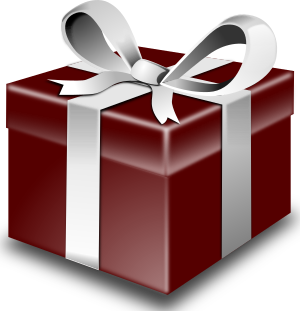
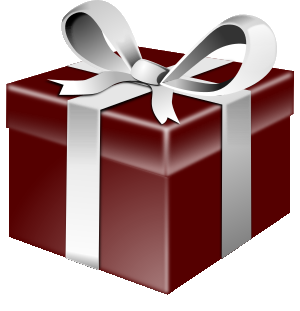
added a present for everyone

Changed region(s): [[0.0, 0.3762, 1.0, 1.0]]

diff --git a/index.html b/index.html
@@ -31,6 +31,8 @@
 
     <img src="img/papiez.jpg" alt="The pope John Paul II" title="The pope John Paul II" class="papiezimg">
     
+    <a href="prezent"><img src="img/present.png" alt="A present!" class="prezent"></a>
+    
     <iframe width="560" height="315" src="https://www.youtube.com/embed/Z_IwpbYsGt0" frameborder="0" allow="accelerometer; autoplay; clipboard-write; encrypted-media; gyroscope; picture-in-picture" class="trailer" allowfullscreen></iframe>
     
     <img src="img/jp2.png" alt="" title="The secret pope John Paul II" class="secret">

diff --git a/styles.css b/styles.css
@@ -142,3 +142,18 @@ body {
 #textshadow {
     text-shadow: 0px 8px 16px rgba(0,0,0,0.2);
 }
+
+.prezent {
+    position: absolute;
+    width: 5%;
+    padding: 0;
+    margin: 0;
+    left:70px;
+    top:800px;
+    transform: scaleX(-1);
+    transition: width 0.1s;
+    transition-timing-function: ease-in;
+}
+.prezent:hover {
+    width: 6%;
+}
